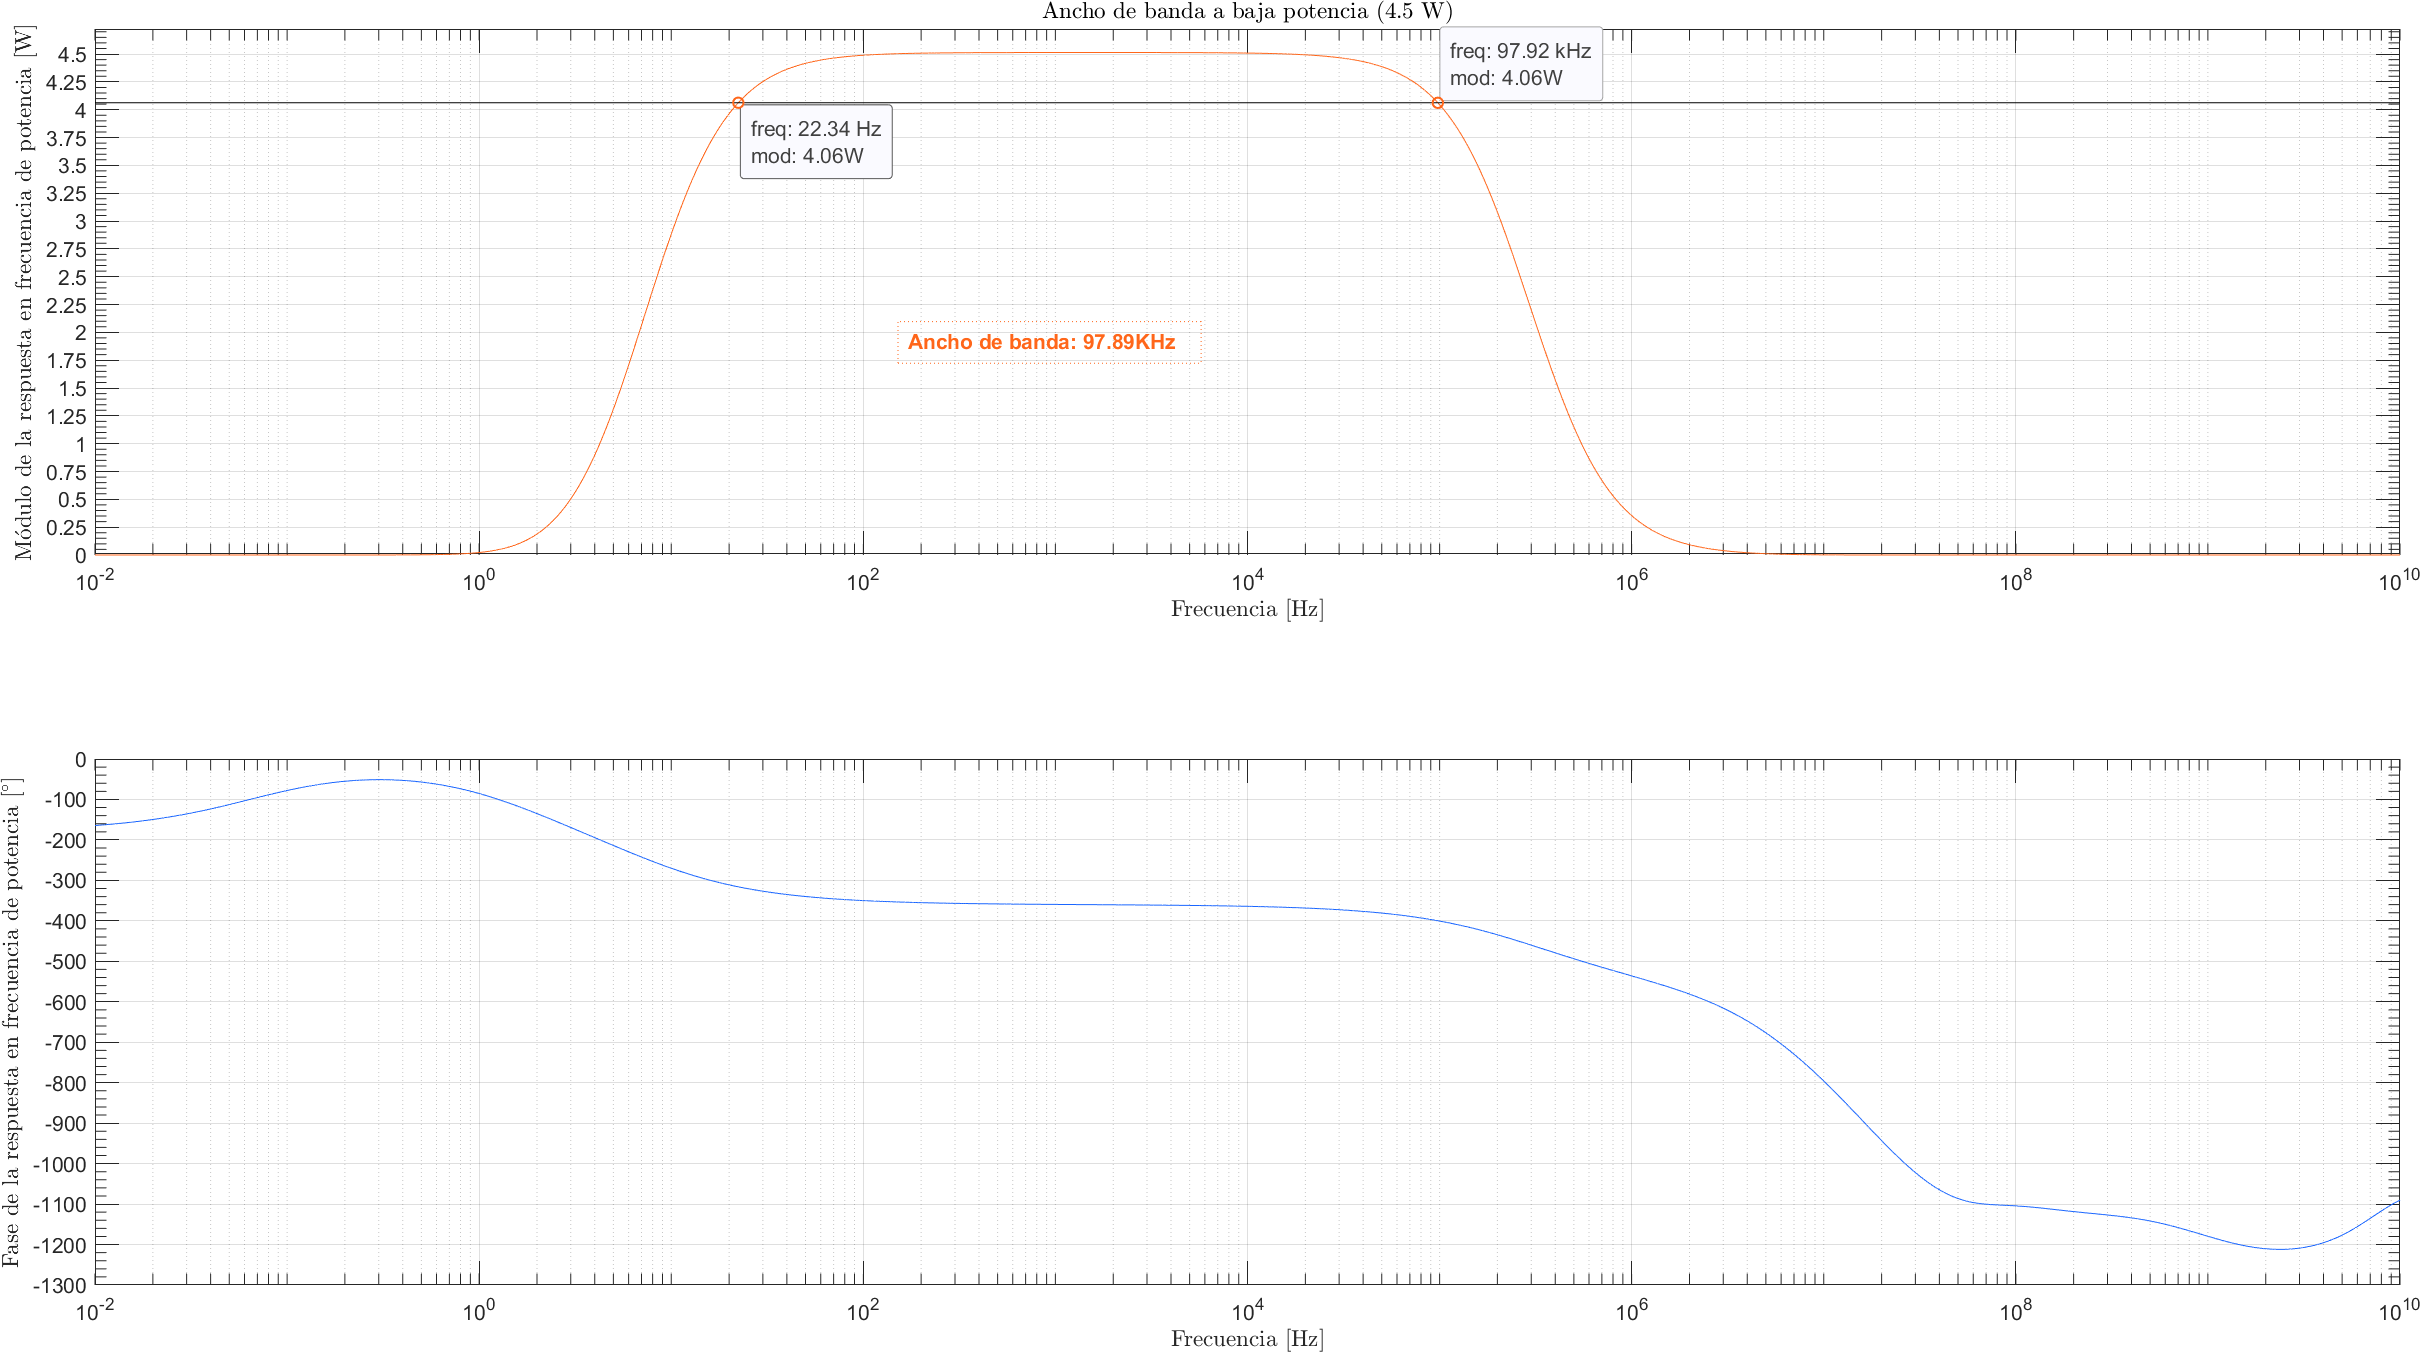
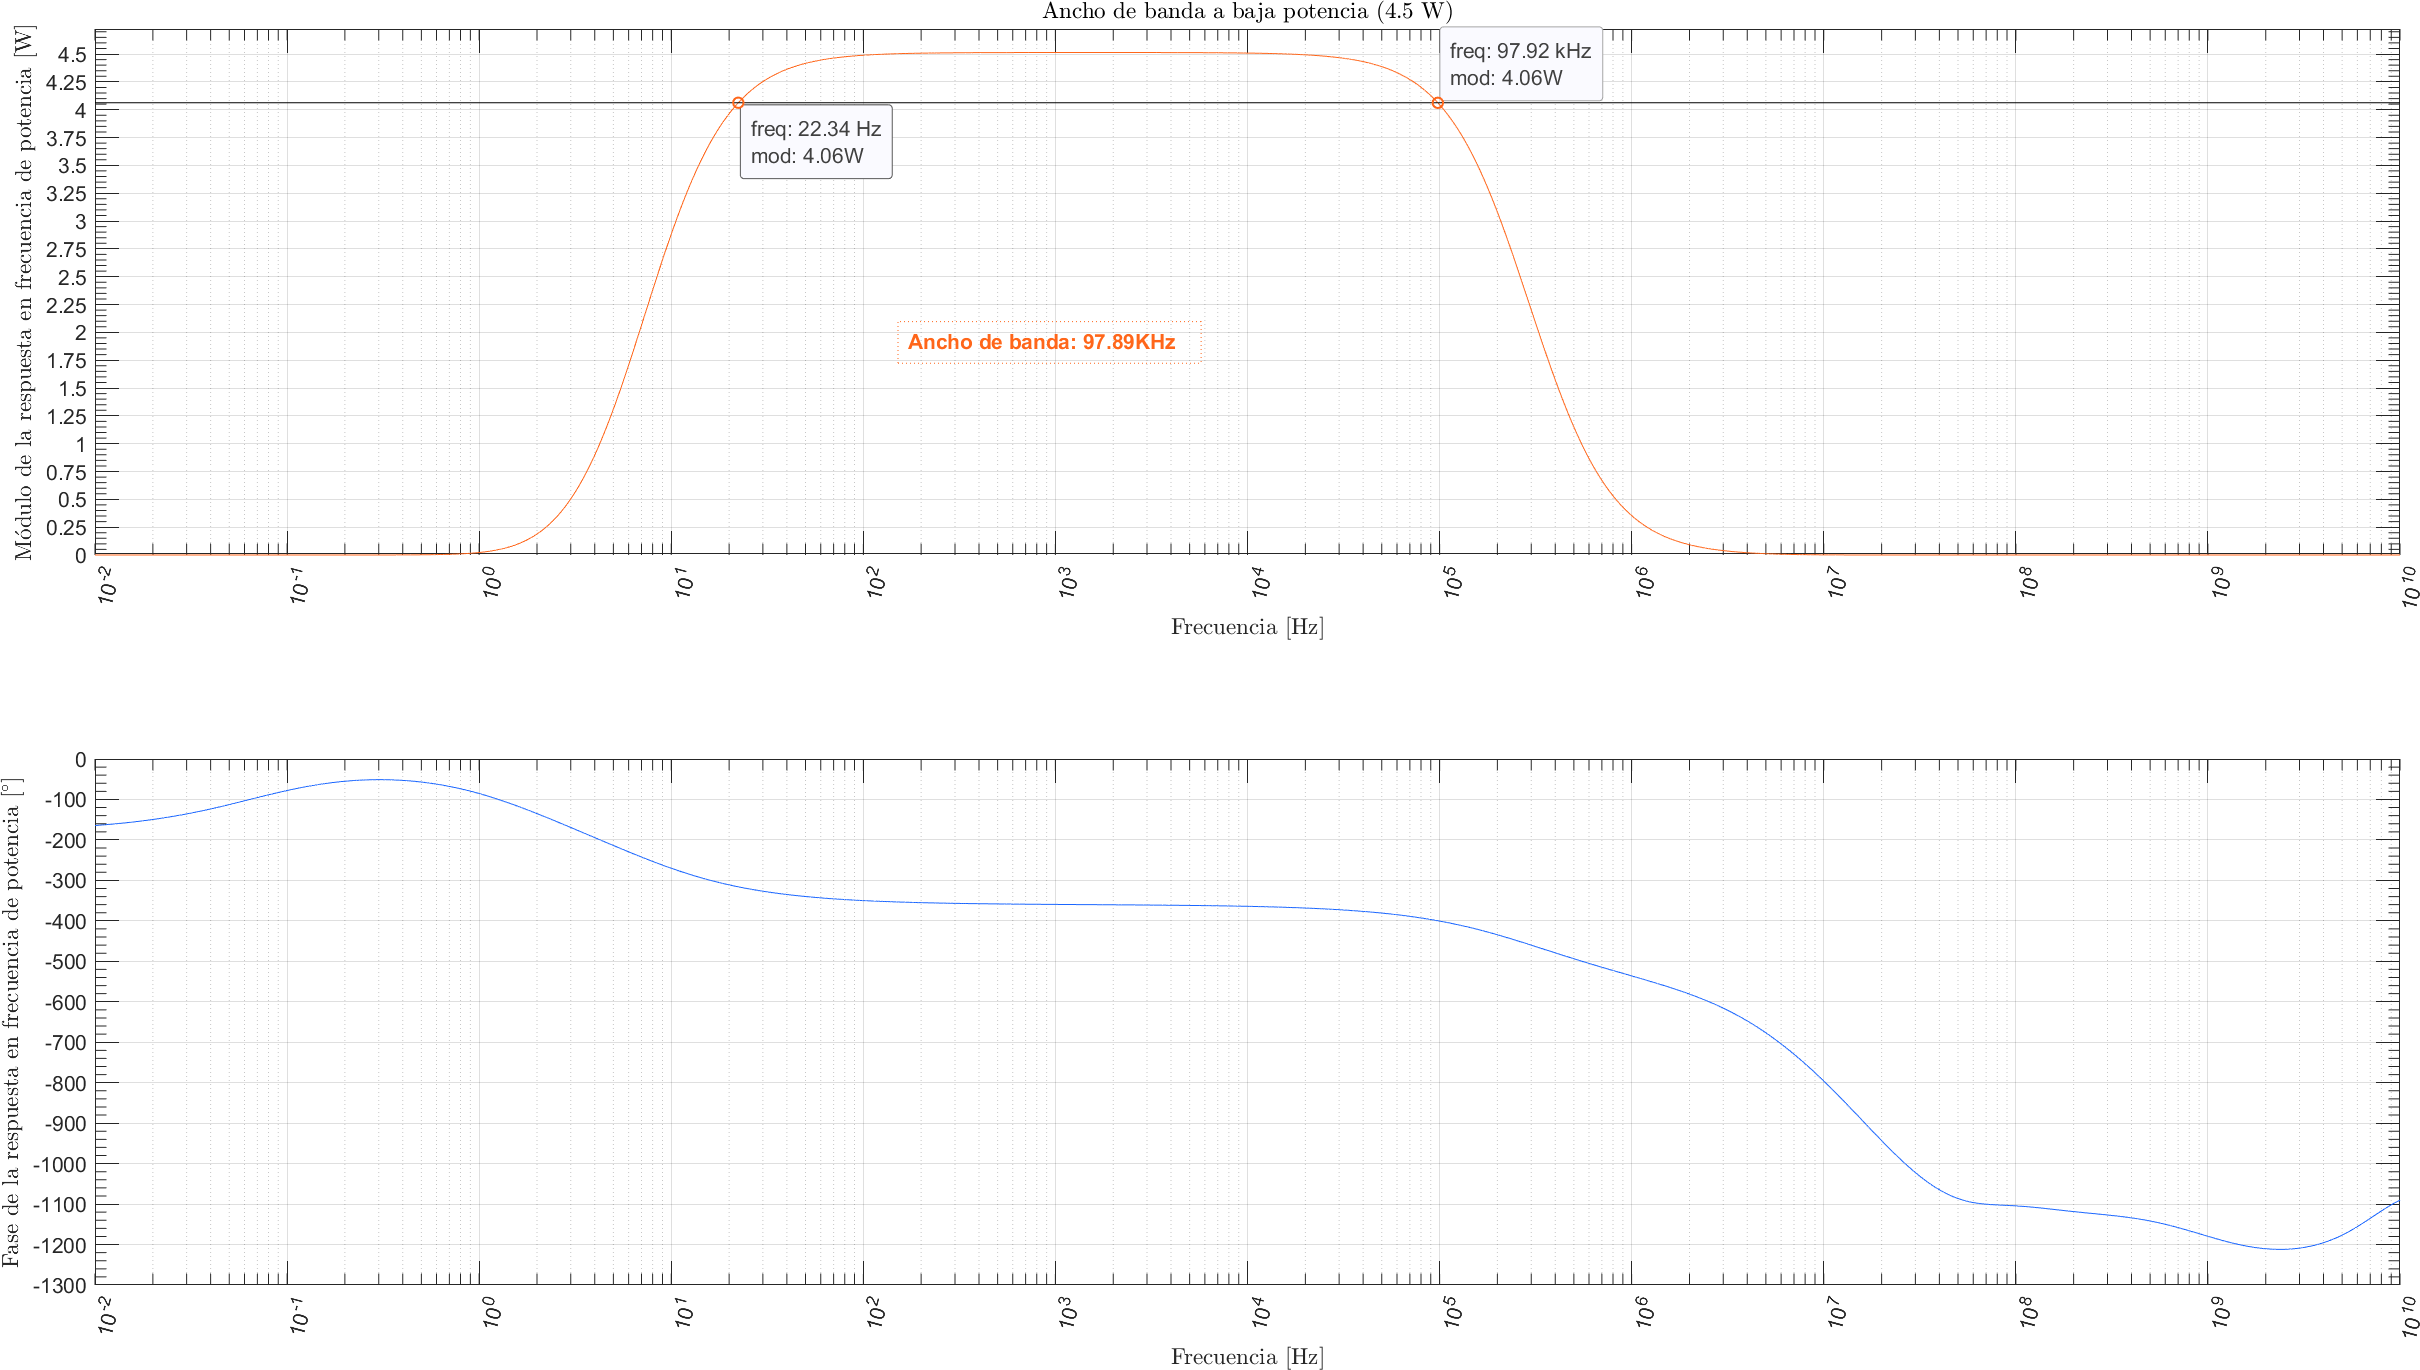
Agrego scripts de MATLAB al repo.

diff --git a/MATLAB/aaa_plot_all.m b/MATLAB/aaa_plot_all.m
@@ -22,39 +22,36 @@ end
 %%%%%%%%%%%%%%%%%%%%%%%%%%%%%%%%%%%%%%%%%%%%%%%%%%%%%%%%%%%%%%%%%%%%%
 
 
-%  G_thd_vs_Power_sim(spice_directory, ... % Check.
-%      fullfile('simulaciones', 'THD'), ...
-%      images_directory, false); 
-% 
-%  G_thd_vs_Power(spice_directory, ... % Check.
-%      fullfile('mediciones', 'THD'), ...
-%      images_directory, false);
+ G_thd_vs_Power_sim(spice_directory, ... % Check.
+     fullfile('simulaciones', 'THD'), ...
+     images_directory, false); 
+
+ G_thd_vs_Power(spice_directory, ... % Check.
+     fullfile('mediciones', 'THD'), ...
+     images_directory, false);
  
-%  G_thd_vs_Freq_sim(spice_directory, ... % Check.
-%      fullfile('simulaciones', 'THD'), ...
-%      images_directory, false); 
-% 
-%  G_thd_vs_Freq(spice_directory, ... % Check.
-%      fullfile('mediciones', 'THD'), ...
-%      images_directory, false); 
-%  
-%  G_Zi(spice_directory, fullfile('simulaciones', 'Impedance'), ... % Check.
-%      images_directory, false); 
-%  
-%  G_Zo(spice_directory, fullfile('simulaciones', 'Impedance'), ... % Check.
-%      images_directory, false); 
-% 
-%  G_phase_margin(spice_directory, fullfile('simulaciones', 'Loop'), ... % Check.
-%      images_directory, false);
-% 
-% G_power_BW(spice_directory, fullfile('simulaciones', 'BW'), ... % Check.
-%     images_directory, false);
-% 
-% G_low_power_BW(spice_directory, fullfile('simulaciones', 'BW'), ... % Check.
-%     images_directory, false);
+ G_thd_vs_Freq_sim(spice_directory, ... % Check.
+     fullfile('simulaciones', 'THD'), ...
+     images_directory, false); 
 
+ G_thd_vs_Freq(spice_directory, ... % Check.
+     fullfile('mediciones', 'THD'), ...
+     images_directory, false); 
+ 
+ G_Zi(spice_directory, fullfile('simulaciones', 'Impedance'), ... % Check.
+     images_directory, false); 
+ 
+ G_Zo(spice_directory, fullfile('simulaciones', 'Impedance'), ... % Check.
+     images_directory, false); 
 
+ G_phase_margin(spice_directory, fullfile('simulaciones', 'Loop'), ... % Check.
+     images_directory, false);
 
+G_power_BW(spice_directory, fullfile('simulaciones', 'BW'), ... % Check.
+    images_directory, false);
+
+G_low_power_BW(spice_directory, fullfile('simulaciones', 'BW'), ... % Check.
+    images_directory, false);
 
 G_step_big_signal(spice_directory, fullfile('simulaciones', 'Slew_Rate'), ... % Check.
     images_directory, false);

diff --git a/MATLAB/aab_power_rf.m b/MATLAB/aab_power_rf.m
@@ -77,6 +77,24 @@ ylim(subplot_phase, phase_limits);
 % Create title
 title(subplot_module, fig_title, 'Interpreter', 'latex');
 
+xtickangle(subplot_module, 75);
+xtickangle(subplot_phase, 75);
+
+
+
+
+xtick = 10.^(log10(min(freq)):log10(max(freq)));
+xticklab = cellstr(num2str(round(log10(xtick(:))), '10^{%d}'));
+set(subplot_module, 'XTick', xtick, 'XTickLabel', xticklab, ...
+    'TickLabelInterpreter', 'tex')
+
+set(subplot_phase, 'XTick', xtick, 'XTickLabel', xticklab, ...
+    'TickLabelInterpreter', 'tex')
+
+
+
+
+
 
 
 phase_angle = unwrap(angle(complex_response));

diff --git a/MATLAB/aab_impedance.m b/MATLAB/aab_impedance.m
@@ -58,6 +58,8 @@ xlim(subplot1, freq_limits);
 ylim(subplot1,'manual');
 ylim(subplot1, mod_limits);
 
+xtickangle(ax, 75);
+
 % Create subplot
 subplot2 = subplot(2, 1, 2, 'Parent', figure_handle);
 
@@ -83,6 +85,10 @@ xlim(subplot2, freq_limits);
 
 ylim(subplot2,'manual');
 ylim(subplot2, phase_limits);
+
+xtickangle(subplot1, 75);
+
+xtickangle(subplot2, 75);
 
 
 %Agrego datatips customizados.

diff --git a/MATLAB/aab_dynamic_response.m b/MATLAB/aab_dynamic_response.m
@@ -39,6 +39,9 @@ ylabel(subplot1, strjoin({'Tensi\''{o}n de entrada ',...
 % Create xlabel
 xlabel(subplot1, 'Tiempo [S]');
 
+xtickangle(subplot1, 75);
+
+
 % Create title
 title(subplot1, fig_title, 'Interpreter', 'latex');
 
@@ -91,6 +94,8 @@ xlim(subplot2,time_limits);
 
 ylim(subplot2,'manual');
 ylim(subplot2,vout_limits);
+
+xtickangle(subplot2, 75);
 
 
 

diff --git a/MATLAB/aab_loop_gain.m b/MATLAB/aab_loop_gain.m
@@ -75,6 +75,11 @@ ylim(subplot_phase,'manual');
 ylim(subplot_phase, phase_limits);
 
 
+xtickangle(subplot_module, 75);
+
+xtickangle(subplot_phase, 75);
+
+
 % Create title
 title(subplot_module, fig_title, 'Interpreter', 'latex');
 
